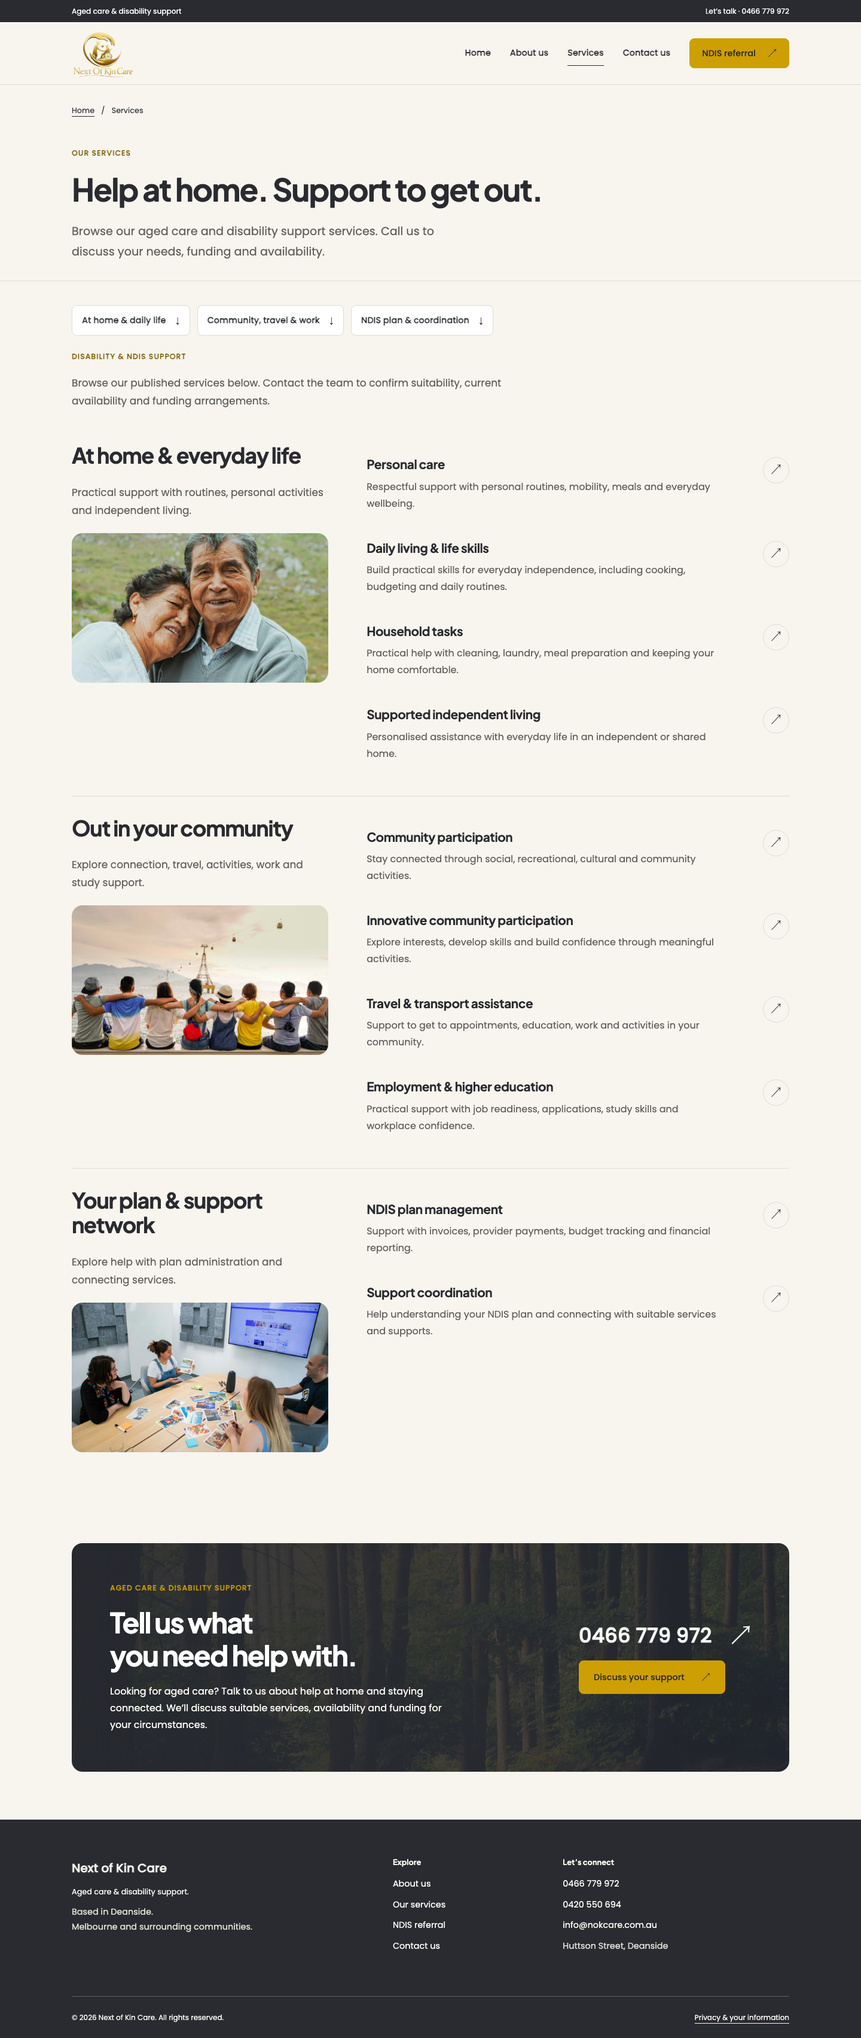
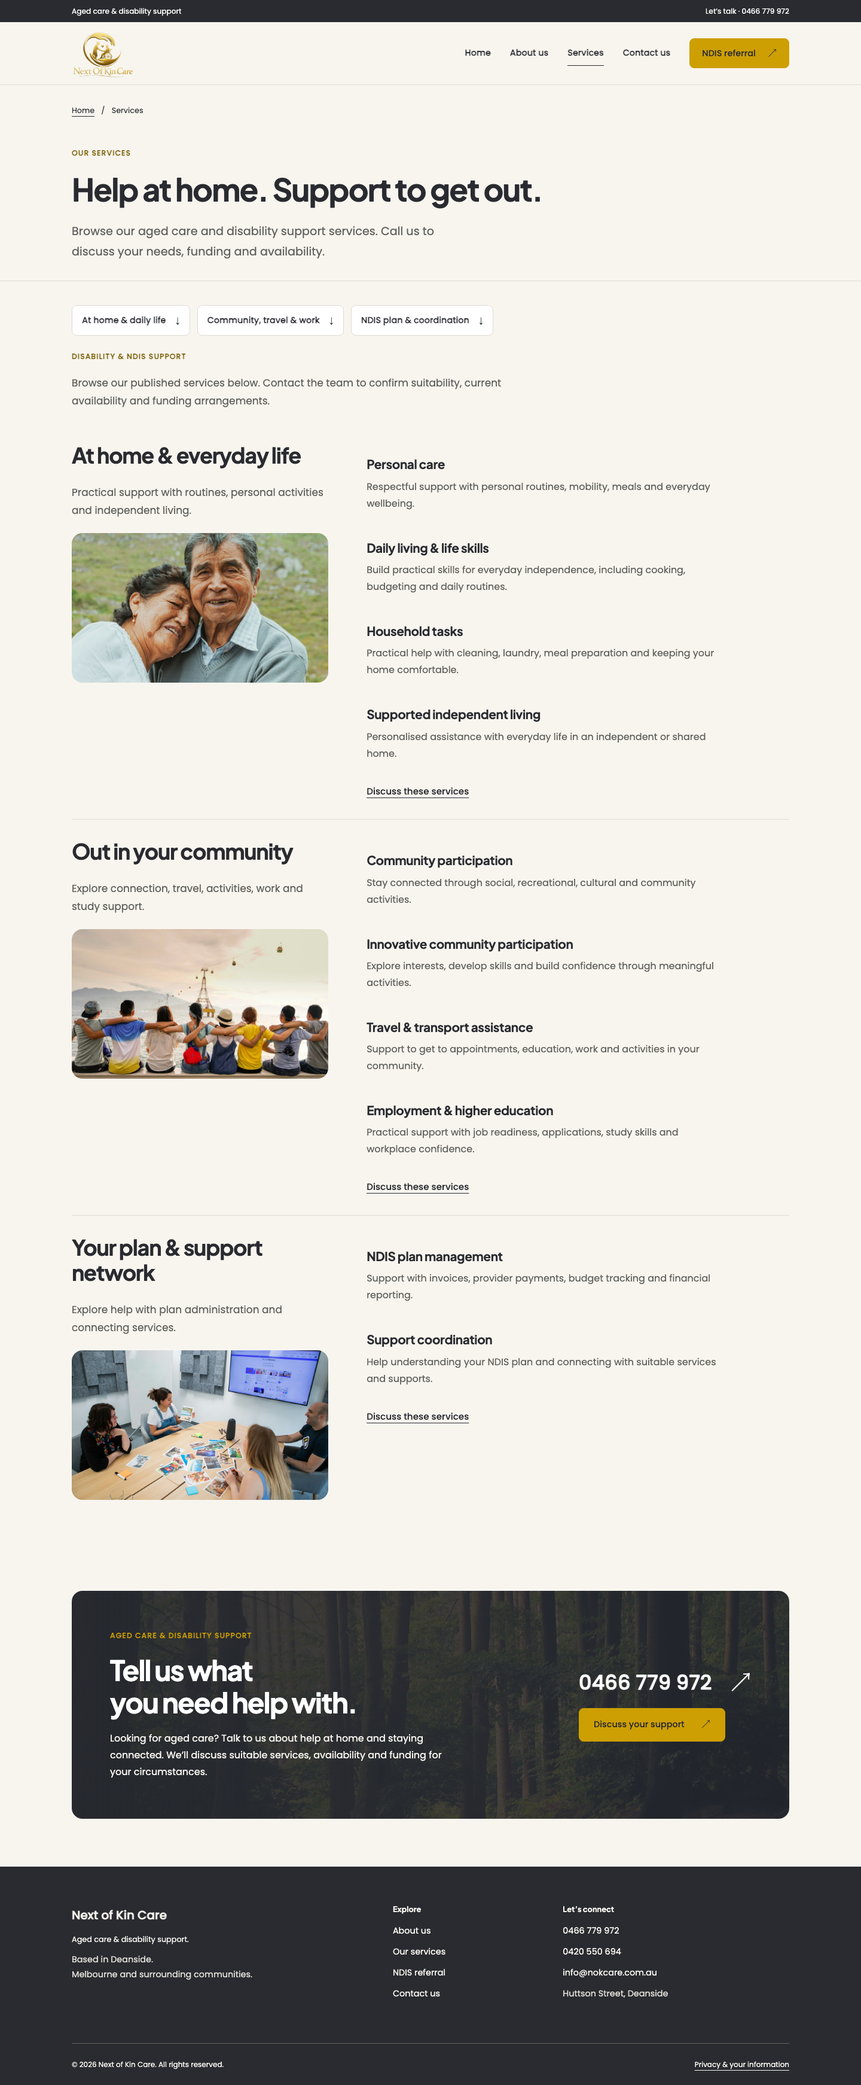
Replace individual service links with one enquiry link per group

diff --git a/services.html b/services.html
@@ -2,5 +2,5 @@
 <html lang="en-AU"><head><meta charset="utf-8"><meta name="viewport" content="width=device-width, initial-scale=1"><title>Our Services | Next of Kin Care</title><meta name="description" content="Explore NOK Care services including daily living, personal care, household tasks, transport, community participation and NDIS support."><meta name="theme-color" content="#F8F5EF"><meta property="og:title" content="Our Services | Next of Kin Care"><meta property="og:description" content="Explore NOK Care services including daily living, personal care, household tasks, transport, community participation and NDIS support."><meta property="og:type" content="website"><link rel="icon" href="assets/icons/favicon.svg" type="image/svg+xml"><link rel="stylesheet" href="css/brand.css"><link rel="stylesheet" href="css/global.css"><link rel="stylesheet" href="css/components.css"><link rel="stylesheet" href="css/layout.css"><link rel="stylesheet" href="css/responsive.css"><script type="module" src="js/main.js"></script></head><body class="page-services"><a class="skip-link" href="#main">Skip to content</a>
 <header class="site-header"><div class="utility"><div class="container"><span>Aged care & disability support</span><a href="tel:0466779972">Let’s talk · 0466 779 972</a></div></div>
 <div class="container header-inner"><a class="brand" href="index.html" aria-label="Next of Kin Care home"><img src="assets/images/nok-care-logo.png" alt="Next of Kin Care" width="375" height="286"></a><button type="button" class="menu-toggle" aria-expanded="false" aria-controls="main-nav" hidden>Menu <span aria-hidden="true">☰</span></button><nav id="main-nav" aria-label="Main navigation"><a href="index.html">Home</a><a href="about.html">About us</a><a href="services.html" aria-current="page">Services</a><a href="contact.html">Contact us</a><a class="button button-small" href="referral.html">NDIS referral <span aria-hidden="true">↗</span></a></nav></div></header><main id="main" tabindex="-1"><section class="page-hero"><div class="container"><div class="breadcrumb"><a href="index.html">Home</a><span aria-hidden="true">/</span><span>Services</span></div><div class="page-heading page-heading--compact"><div class="page-heading-copy"><span class="eyebrow">Our services</span><h1>Help at home. Support to get out.</h1><p class="lead">Browse our aged care and disability support services. Call us to discuss your needs, funding and availability.</p></div></div></div></section>
-<section class="section section-tight" id="service-directory"><div class="container"><nav class="category-nav" aria-label="Service categories"><a href="#home-support">At home & daily life <span aria-hidden="true">↓</span></a><a href="#community-support">Community, travel & work <span aria-hidden="true">↓</span></a><a href="#plan-support">NDIS plan & coordination <span aria-hidden="true">↓</span></a></nav><div id="disability-support" class="directory-intro"><span class="eyebrow">Disability & NDIS support</span><p>Browse our published services below. Contact the team to confirm suitability, current availability and funding arrangements.</p></div><section class="service-group" id="home-support"><div class="service-group-intro"><h2>At home &amp; everyday life</h2><p>Practical support with routines, personal activities and independent living.</p><img class="service-group-photo" src="assets/images/aged-care-companionship.jpg" alt="An older couple sharing a hug outdoors" width="900" height="1350" loading="lazy"></div><div class="service-grid service-grid--plain"><article class="service-card" id="personal-care"><a class="service-card-link" href="contact.html" aria-label="Ask about this service: Personal care"><div class="service-copy"><h3>Personal care</h3><p>Respectful support with personal routines, mobility, meals and everyday wellbeing.</p></div><span class="service-card-action"><span class="service-link-label">Ask about this service</span><span class="service-arrow" aria-hidden="true">↗</span></span></a></article><article class="service-card" id="daily-living"><a class="service-card-link" href="contact.html" aria-label="Ask about this service: Daily living &amp; life skills"><div class="service-copy"><h3>Daily living &amp; life skills</h3><p>Build practical skills for everyday independence, including cooking, budgeting and daily routines.</p></div><span class="service-card-action"><span class="service-link-label">Ask about this service</span><span class="service-arrow" aria-hidden="true">↗</span></span></a></article><article class="service-card" id="household"><a class="service-card-link" href="contact.html" aria-label="Ask about this service: Household tasks"><div class="service-copy"><h3>Household tasks</h3><p>Practical help with cleaning, laundry, meal preparation and keeping your home comfortable.</p></div><span class="service-card-action"><span class="service-link-label">Ask about this service</span><span class="service-arrow" aria-hidden="true">↗</span></span></a></article><article class="service-card" id="sil"><a class="service-card-link" href="contact.html" aria-label="Ask about this service: Supported independent living"><div class="service-copy"><h3>Supported independent living</h3><p>Personalised assistance with everyday life in an independent or shared home.</p></div><span class="service-card-action"><span class="service-link-label">Ask about this service</span><span class="service-arrow" aria-hidden="true">↗</span></span></a></article></div></section><section class="service-group" id="community-support"><div class="service-group-intro"><h2>Out in your community</h2><p>Explore connection, travel, activities, work and study support.</p><img class="service-group-photo" src="assets/images/community-connections.jpg" alt="Friends sitting together outdoors" width="900" height="506" loading="lazy"></div><div class="service-grid service-grid--plain"><article class="service-card" id="community"><a class="service-card-link" href="contact.html" aria-label="Ask about this service: Community participation"><div class="service-copy"><h3>Community participation</h3><p>Stay connected through social, recreational, cultural and community activities.</p></div><span class="service-card-action"><span class="service-link-label">Ask about this service</span><span class="service-arrow" aria-hidden="true">↗</span></span></a></article><article class="service-card" id="innovative-community"><a class="service-card-link" href="contact.html" aria-label="Ask about this service: Innovative community participation"><div class="service-copy"><h3>Innovative community participation</h3><p>Explore interests, develop skills and build confidence through meaningful activities.</p></div><span class="service-card-action"><span class="service-link-label">Ask about this service</span><span class="service-arrow" aria-hidden="true">↗</span></span></a></article><article class="service-card" id="transport"><a class="service-card-link" href="contact.html" aria-label="Ask about this service: Travel &amp; transport assistance"><div class="service-copy"><h3>Travel &amp; transport assistance</h3><p>Support to get to appointments, education, work and activities in your community.</p></div><span class="service-card-action"><span class="service-link-label">Ask about this service</span><span class="service-arrow" aria-hidden="true">↗</span></span></a></article><article class="service-card" id="employment"><a class="service-card-link" href="contact.html" aria-label="Ask about this service: Employment &amp; higher education"><div class="service-copy"><h3>Employment &amp; higher education</h3><p>Practical support with job readiness, applications, study skills and workplace confidence.</p></div><span class="service-card-action"><span class="service-link-label">Ask about this service</span><span class="service-arrow" aria-hidden="true">↗</span></span></a></article></div></section><section class="service-group" id="plan-support"><div class="service-group-intro"><h2>Your plan &amp; support network</h2><p>Explore help with plan administration and connecting services.</p><img class="service-group-photo" src="assets/images/planning-together.jpg" alt="People discussing ideas around a table" width="1100" height="733" loading="lazy"></div><div class="service-grid service-grid--plain"><article class="service-card" id="plan-management"><a class="service-card-link" href="contact.html" aria-label="Ask about this service: NDIS plan management"><div class="service-copy"><h3>NDIS plan management</h3><p>Support with invoices, provider payments, budget tracking and financial reporting.</p></div><span class="service-card-action"><span class="service-link-label">Ask about this service</span><span class="service-arrow" aria-hidden="true">↗</span></span></a></article><article class="service-card" id="coordination"><a class="service-card-link" href="contact.html" aria-label="Ask about this service: Support coordination"><div class="service-copy"><h3>Support coordination</h3><p>Help understanding your NDIS plan and connecting with suitable services and supports.</p></div><span class="service-card-action"><span class="service-link-label">Ask about this service</span><span class="service-arrow" aria-hidden="true">↗</span></span></a></article></div></section></div></section>
+<section class="section section-tight" id="service-directory"><div class="container"><nav class="category-nav" aria-label="Service categories"><a href="#home-support">At home & daily life <span aria-hidden="true">↓</span></a><a href="#community-support">Community, travel & work <span aria-hidden="true">↓</span></a><a href="#plan-support">NDIS plan & coordination <span aria-hidden="true">↓</span></a></nav><div id="disability-support" class="directory-intro"><span class="eyebrow">Disability & NDIS support</span><p>Browse our published services below. Contact the team to confirm suitability, current availability and funding arrangements.</p></div><section class="service-group" id="home-support"><div class="service-group-intro"><h2>At home &amp; everyday life</h2><p>Practical support with routines, personal activities and independent living.</p><img class="service-group-photo" src="assets/images/aged-care-companionship.jpg" alt="An older couple sharing a hug outdoors" width="900" height="1350" loading="lazy"></div><div class="service-group-content"><div class="service-grid service-grid--plain"><article class="service-card" id="personal-care"><div class="service-copy"><h3>Personal care</h3><p>Respectful support with personal routines, mobility, meals and everyday wellbeing.</p></div></article><article class="service-card" id="daily-living"><div class="service-copy"><h3>Daily living &amp; life skills</h3><p>Build practical skills for everyday independence, including cooking, budgeting and daily routines.</p></div></article><article class="service-card" id="household"><div class="service-copy"><h3>Household tasks</h3><p>Practical help with cleaning, laundry, meal preparation and keeping your home comfortable.</p></div></article><article class="service-card" id="sil"><div class="service-copy"><h3>Supported independent living</h3><p>Personalised assistance with everyday life in an independent or shared home.</p></div></article></div><a class="text-link service-group-discuss" href="contact.html" aria-label="Discuss these services: At home &amp; everyday life">Discuss these services</a></div></section><section class="service-group" id="community-support"><div class="service-group-intro"><h2>Out in your community</h2><p>Explore connection, travel, activities, work and study support.</p><img class="service-group-photo" src="assets/images/community-connections.jpg" alt="Friends sitting together outdoors" width="900" height="506" loading="lazy"></div><div class="service-group-content"><div class="service-grid service-grid--plain"><article class="service-card" id="community"><div class="service-copy"><h3>Community participation</h3><p>Stay connected through social, recreational, cultural and community activities.</p></div></article><article class="service-card" id="innovative-community"><div class="service-copy"><h3>Innovative community participation</h3><p>Explore interests, develop skills and build confidence through meaningful activities.</p></div></article><article class="service-card" id="transport"><div class="service-copy"><h3>Travel &amp; transport assistance</h3><p>Support to get to appointments, education, work and activities in your community.</p></div></article><article class="service-card" id="employment"><div class="service-copy"><h3>Employment &amp; higher education</h3><p>Practical support with job readiness, applications, study skills and workplace confidence.</p></div></article></div><a class="text-link service-group-discuss" href="contact.html" aria-label="Discuss these services: Out in your community">Discuss these services</a></div></section><section class="service-group" id="plan-support"><div class="service-group-intro"><h2>Your plan &amp; support network</h2><p>Explore help with plan administration and connecting services.</p><img class="service-group-photo" src="assets/images/planning-together.jpg" alt="People discussing ideas around a table" width="1100" height="733" loading="lazy"></div><div class="service-group-content"><div class="service-grid service-grid--plain"><article class="service-card" id="plan-management"><div class="service-copy"><h3>NDIS plan management</h3><p>Support with invoices, provider payments, budget tracking and financial reporting.</p></div></article><article class="service-card" id="coordination"><div class="service-copy"><h3>Support coordination</h3><p>Help understanding your NDIS plan and connecting with suitable services and supports.</p></div></article></div><a class="text-link service-group-discuss" href="contact.html" aria-label="Discuss these services: Your plan &amp; support network">Discuss these services</a></div></section></div></section>
 <section class="section section-standard" id="aged-care"><div class="container cta cta-services"><div><span class="eyebrow">Aged care & disability support</span><h2>Tell us what<br>you need help with.</h2><p>Looking for aged care? Talk to us about help at home and staying connected. We’ll discuss suitable services, availability and funding for your circumstances.</p></div><div><a class="cta-phone" href="tel:0466779972">0466 779 972 <span aria-hidden="true">↗</span></a><a class="button" href="contact.html">Discuss your support <span aria-hidden="true">↗</span></a></div></div></section></main><footer class="site-footer"><div class="container footer-grid"><div><a class="footer-brand" href="index.html">Next of Kin Care<span>Aged care & disability support.</span></a><p>Based in Deanside.<br>Melbourne and surrounding communities.</p></div><div><h2>Explore</h2><a href="about.html">About us</a><a href="services.html">Our services</a><a href="referral.html">NDIS referral</a><a href="contact.html">Contact us</a></div><div><h2>Let’s connect</h2><a href="tel:0466779972">0466 779 972</a><a href="tel:0420550694">0420 550 694</a><a href="mailto:info@nokcare.com.au">info@nokcare.com.au</a><p>Huttson Street, Deanside</p></div></div><div class="container footer-bottom"><span>© 2026 Next of Kin Care. All rights reserved.</span><a href="contact.html#privacy">Privacy & your information</a></div></footer></body></html>

diff --git a/css/layout.css b/css/layout.css
@@ -149,3 +149,6 @@
 .service-grid--plain .service-card { grid-template-columns: minmax(0, 1fr); border-bottom: 0; padding-block: 1.5rem; }
 .page-services .service-group:first-of-type { border-top: 0; }
 .cta-services p { max-width: 580px; margin: 1.25rem 0 0; color: var(--warm); font-size: 1rem; }
+
+.service-group-content { min-width: 0; }
+.service-group-discuss { margin-top: .75rem; }

diff --git a/scripts/build.py b/scripts/build.py
@@ -18,11 +18,13 @@ def render(text, values):
 def service_cards(items, on_services=False):
     rows = []
     for number, item in enumerate(items, 1):
-        target = 'contact.html' if on_services else 'services.html#' + item['id']
-        label = 'Ask about this service' if on_services else 'Read about this service'
         title = escape(item.get('displayTitle', item['title']))
-        number_label = '' if on_services else f'<span class="number" aria-hidden="true">{number:02d}</span>'
-        rows.append(f'<article class="service-card" id="{escape(item["id"])}">{number_label}<a class="service-card-link" href="{target}" aria-label="{label}: {title}"><div class="service-copy"><h3>{title}</h3><p>{escape(item["description"])}</p></div><span class="service-card-action"><span class="service-link-label">{label}</span><span class="service-arrow" aria-hidden="true">↗</span></span></a></article>')
+        if on_services:
+            rows.append(f'<article class="service-card" id="{escape(item["id"])}"><div class="service-copy"><h3>{title}</h3><p>{escape(item["description"])}</p></div></article>')
+        else:
+            target = 'services.html#' + item['id']
+            label = 'Read about this service'
+            rows.append(f'<article class="service-card" id="{escape(item["id"])}"><span class="number" aria-hidden="true">{number:02d}</span><a class="service-card-link" href="{target}" aria-label="{label}: {title}"><div class="service-copy"><h3>{title}</h3><p>{escape(item["description"])}</p></div><span class="service-card-action"><span class="service-link-label">{label}</span><span class="service-arrow" aria-hidden="true">↗</span></span></a></article>')
 
     grid_class = 'service-grid service-grid--plain' if on_services else 'service-grid'
     return '<div class="' + grid_class + '">' + ''.join(rows) + '</div>'
@@ -33,7 +35,7 @@ values['areas'] = '<div class="pills">' + ''.join('<span class="pill">' + escape
 service_lookup = {item['id']: item for item in services}
 groups = json.loads((ROOT / 'content/service-groups.json').read_text())
 values['all_services'] = ''.join(
-    '<section class="service-group" id="' + escape(group['id']) + '"><div class="service-group-intro"><h2>' + escape(group['title']) + '</h2><p>' + escape(group['description']) + '</p><img class="service-group-photo" src="assets/images/' + escape(group['image']) + '" alt="' + escape(group['alt']) + '" width="' + str(group['width']) + '" height="' + str(group['height']) + '" loading="lazy"></div>' + service_cards([service_lookup[key] for key in group['services']], True) + '</section>'
+    '<section class="service-group" id="' + escape(group['id']) + '"><div class="service-group-intro"><h2>' + escape(group['title']) + '</h2><p>' + escape(group['description']) + '</p><img class="service-group-photo" src="assets/images/' + escape(group['image']) + '" alt="' + escape(group['alt']) + '" width="' + str(group['width']) + '" height="' + str(group['height']) + '" loading="lazy"></div><div class="service-group-content">' + service_cards([service_lookup[key] for key in group['services']], True) + '<a class="text-link service-group-discuss" href="contact.html" aria-label="Discuss these services: ' + escape(group['title']) + '">Discuss these services</a></div></section>'
     for group in groups)
 form_settings = json.loads((ROOT / 'content/forms.json').read_text())
 if form_settings['mode'] != 'preview' or form_settings['endpoint'] is not None or form_settings['participantDataEnabled']:

diff --git a/qa/HANDOVER_QA.md b/qa/HANDOVER_QA.md
@@ -124,3 +124,9 @@ The full Chromium/Firefox/WebKit suite passed again: 454 checks per engine, 1,36
 Combined the aged-care guidance and general closing CTA into one photographic panel. The `#aged-care` destination is preserved on that section, alongside the phone link and contact action. Removed decorative numbering, per-row divider lines and list-top rules from the Services directory; a single subtle rule separates the service groups. The homepage service component retains its previous styling and numbering.
 
 Scoped Chromium checks passed at 320px, 375px, 768px and 1440px: all ten linked services, no decorative numbers/row/list borders, one closing panel, resolving aged-care fragments, no horizontal scrolling, no asset/runtime errors and no automated accessibility violations. Image-backed contrast remains a manual-review item; desktop/mobile panel and directory captures were visually reviewed. Evidence: `services-cleanup.json`; current Services screenshots are refreshed. This was a scoped check after the full cross-browser baseline, not a rerun of all 1,362 checks. Homepage HTML remains byte-identical.
+
+## Group-level service contact links
+
+The Services directory now presents all ten services as non-interactive descriptions. Individual title links and arrow controls are removed; one context-labelled “Discuss these services” link follows each of the three groups. Category navigation, service fragment destinations and the combined closing contact panel remain intact. Homepage featured-service links are unchanged.
+
+Scoped Chromium checks passed at 320px, 375px, 768px and 1440px: ten descriptions, zero per-service links/arrows, three group contact links, no row/list divider rules, one closing panel, resolving aged-care target, no horizontal overflow or runtime/asset errors and no automated accessibility violations. Desktop/mobile directory captures were visually reviewed. Evidence is `service-group-links.json`; current Services screenshots are refreshed. Earlier individual-service click records describe previous versions; current directory enquiries use the group links. The full cross-browser baseline was not rerun for this small scoped change. Homepage HTML remains byte-identical.

diff --git a/README.md b/README.md
@@ -102,7 +102,7 @@ Sources and intended usage for the four new photographs are in `content/image-so
 Inner pages share brand tokens, typography, buttons and photographic treatment while using layouts suited to their purpose:
 
 - About uses an editorial masthead, one opening image, a concise story, a mission/vision band and a visual values grid.
-- Services uses a compact masthead and category jump links before its three illustrated groups. Plain service rows use spacing instead of divider lines or decorative numbers, with one subtle separator between groups. One photographic contact panel combines general support and aged-care guidance, preserving `#aged-care`. All ten service anchors and both homepage audience destinations remain available.
+- Services uses a compact masthead and category jump links before its three illustrated groups. Plain service descriptions use spacing instead of divider lines or decorative numbers, with one subtle separator between groups. Individual directory descriptions have no links or arrows; each group ends with one “Discuss these services” link. Homepage featured-service links remain unchanged. One photographic contact panel combines general support and aged-care guidance, preserving `#aged-care`. All ten service anchors and both homepage audience destinations remain available.
 - Contact uses a compact masthead, immediate phone/email actions and the form before supporting information in mobile/source order.
 - Referral uses the same task layout with concise guidance, referral-specific FAQs and a closing telephone action that stays in the referral journey.
 
